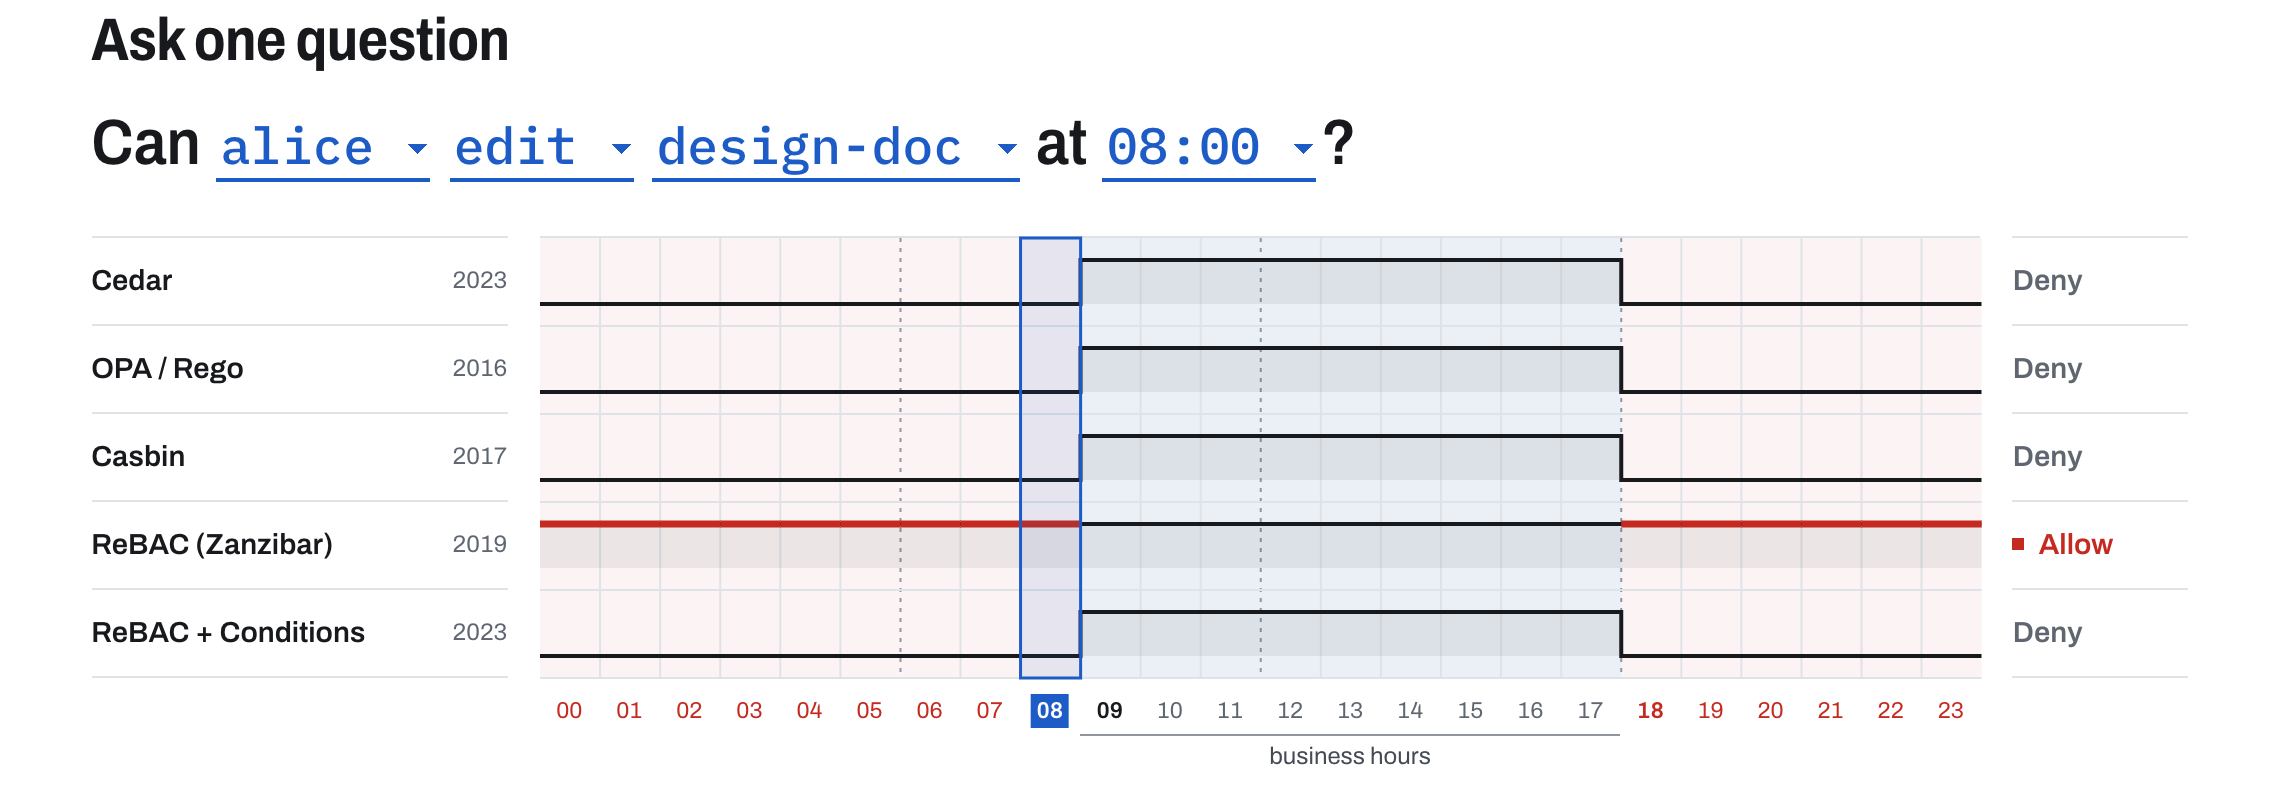
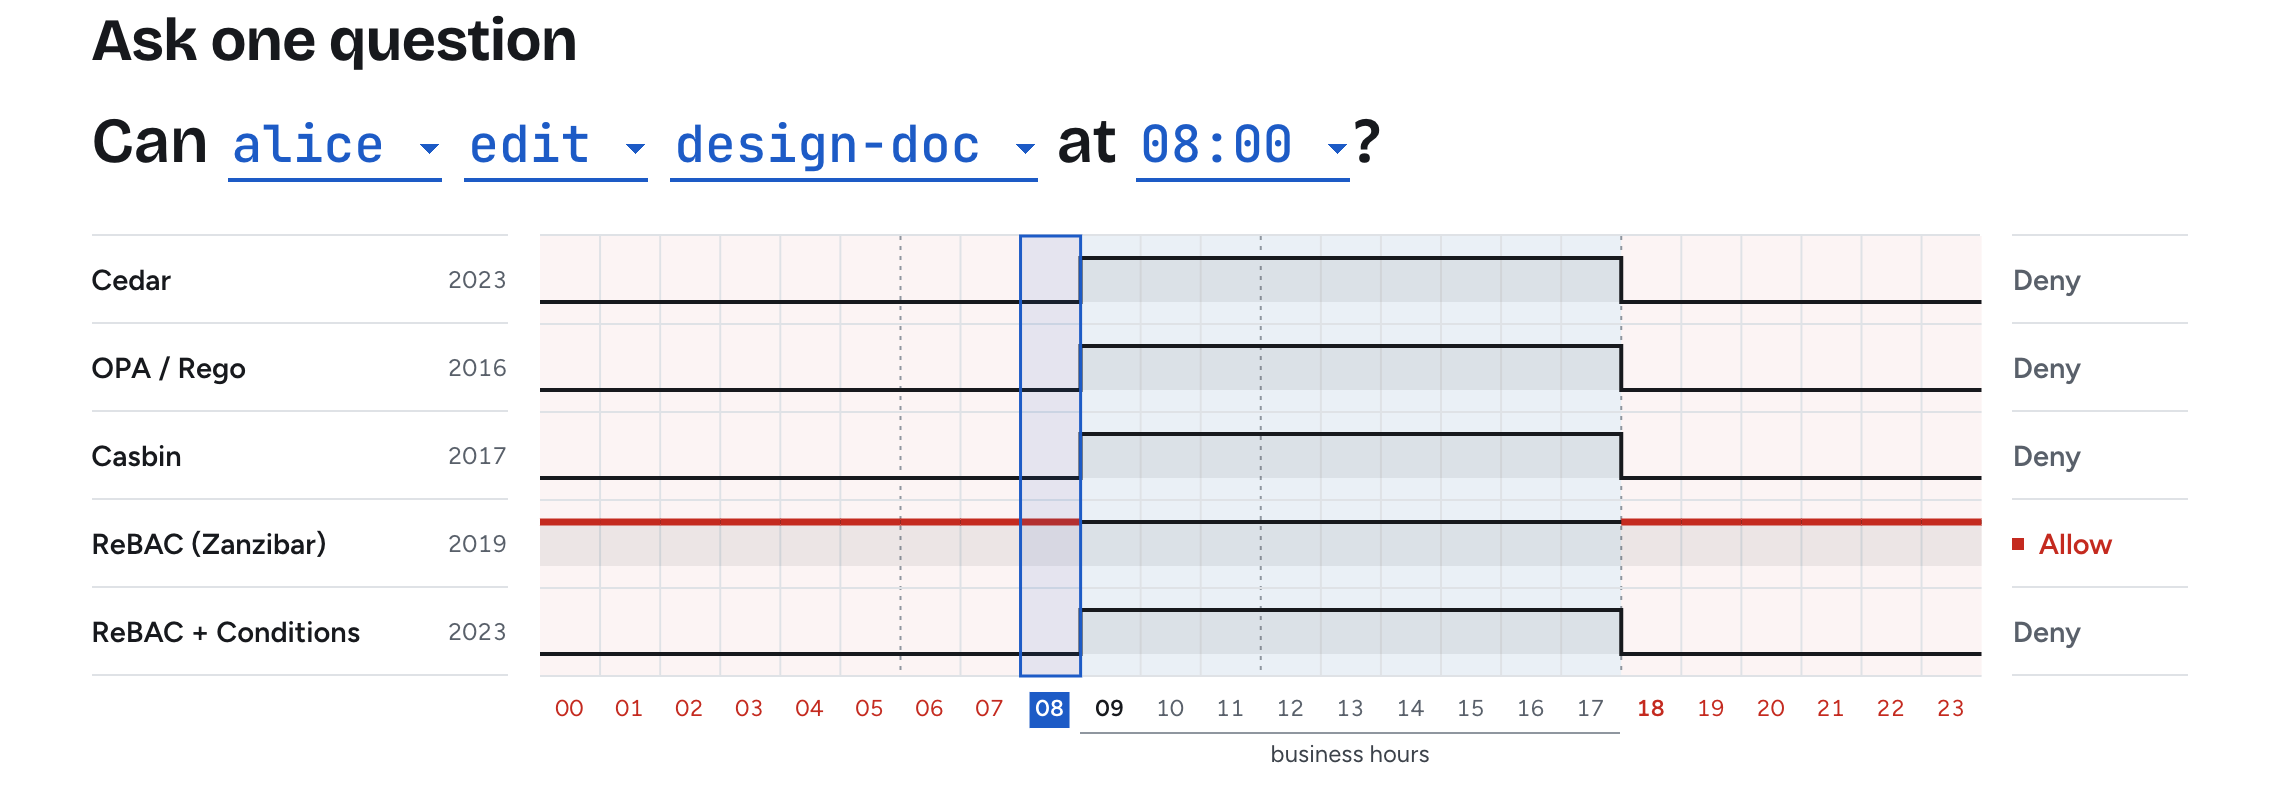
fix(authz-playground): reshoot the images in the site's new typefaces

diff --git a/articles/authz-playground.md b/articles/authz-playground.md
@@ -20,7 +20,7 @@ So I gave four of them the same rules and ran every possible request through all
 - **Live demo:** [https://0-draft.github.io/authz-playground/](https://0-draft.github.io/authz-playground/)
 - **Repo:** [0-draft/authz-playground](https://github.com/0-draft/authz-playground)
 
-![One question, every engine, every hour of the day](./assets/authz-playground/day.png?v=47286c34)
+![One question, every engine, every hour of the day](./assets/authz-playground/day.png?v=6f3b819c)
 
 One question, asked of every engine at every hour of the day. A raised line is allow. Red is where they disagree.
 
@@ -41,7 +41,7 @@ define editor: (owner or admin from parent) and within_hours
 
 It agrees with the other three on every request. It is still not free. A condition can only hang off a tuple, and business hours are about the request rather than any relationship, so every document needs a placeholder tuple whose only job is to carry the clock. The page rates it possible but forced, not native.
 
-![The classic model and the conditional one, asked the same question at 08:00](./assets/authz-playground/graphs.png?v=09f1795d)
+![The classic model and the conditional one, asked the same question at 08:00](./assets/authz-playground/graphs.png?v=39f61897)
 
 Add a document and Casbin needs its policy table regenerated, while ReBAC just gains a tuple and the model never moves.
 
